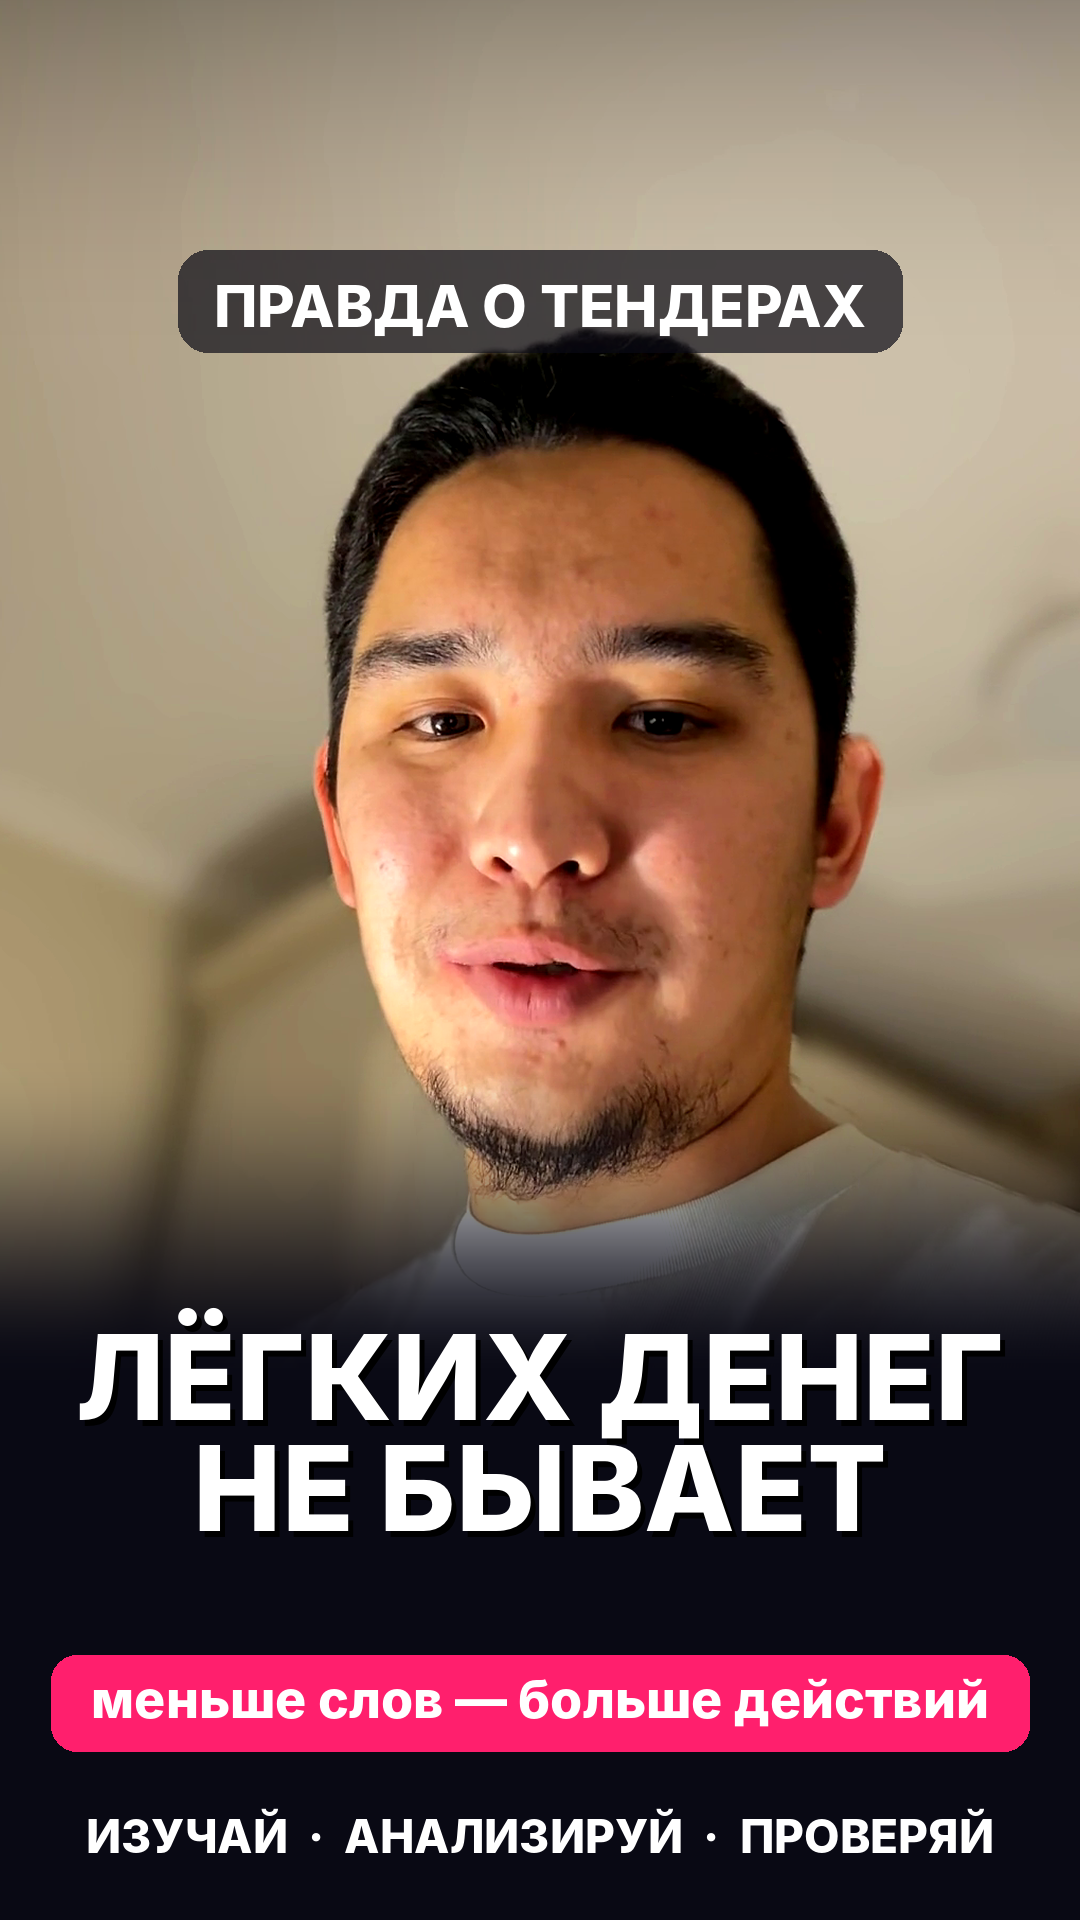
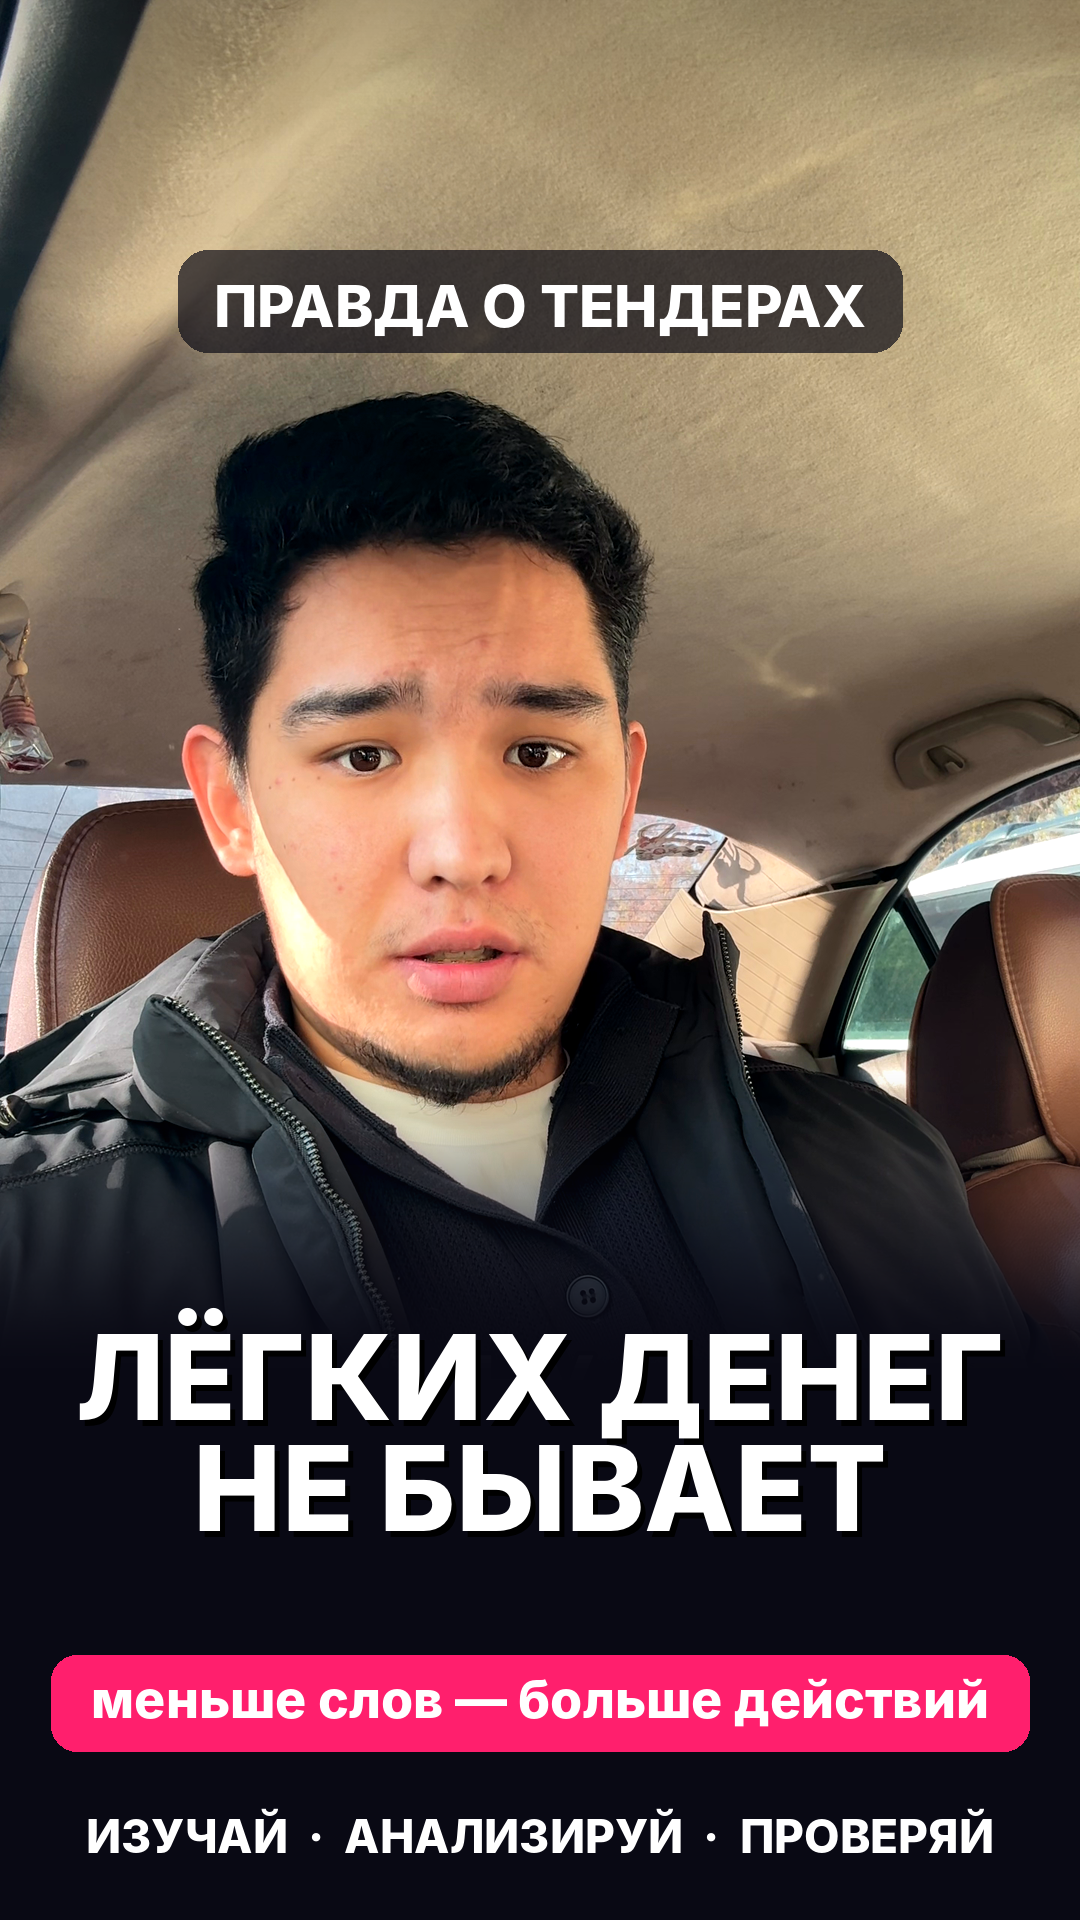
Rebuild tenders cover from the car video
Claude-Session: https://claude.ai/code/session_01DLTSzPkxy7Bh913uRP927L

diff --git a/edit/make_cover.py b/edit/make_cover.py
@@ -8,6 +8,7 @@ from PIL import Image, ImageDraw, ImageFont, ImageFilter, ImageEnhance
 
 ap = argparse.ArgumentParser()
 ap.add_argument("video"); ap.add_argument("dst"); ap.add_argument("--t", type=float, default=44)
+ap.add_argument("--scale", type=float, default=1.06); ap.add_argument("--dy", type=int, default=110)
 ap.add_argument("--top", default="ХОТЕЛИ ПРОДАТЬ ЗА 250 000 ₸", help="плашка сверху")
 ap.add_argument("--strike", type=int, default=1, help="зачеркнуть текст верхней плашки")
 ap.add_argument("--h1", default="ИИ-ОФИС"); ap.add_argument("--h2", default="ЗА НЕДЕЛЮ")
@@ -19,7 +20,7 @@ png = subprocess.run(["ffmpeg", "-v", "error", "-ss", str(a.t), "-i", a.video, "
                       "-f", "image2pipe", "-vcodec", "png", "-"], capture_output=True, check=True).stdout
 img = Image.open(io.BytesIO(png)).convert("RGB")
 # чуть крупнее и выше: лицо уходит от текстового блока
-S, DY = 1.06, 110
+S, DY = a.scale, a.dy
 img = img.resize((int(W * S), int(H * S)), Image.LANCZOS)
 ox = (img.width - W) // 2
 img = img.crop((ox, DY, ox + W, DY + H))
